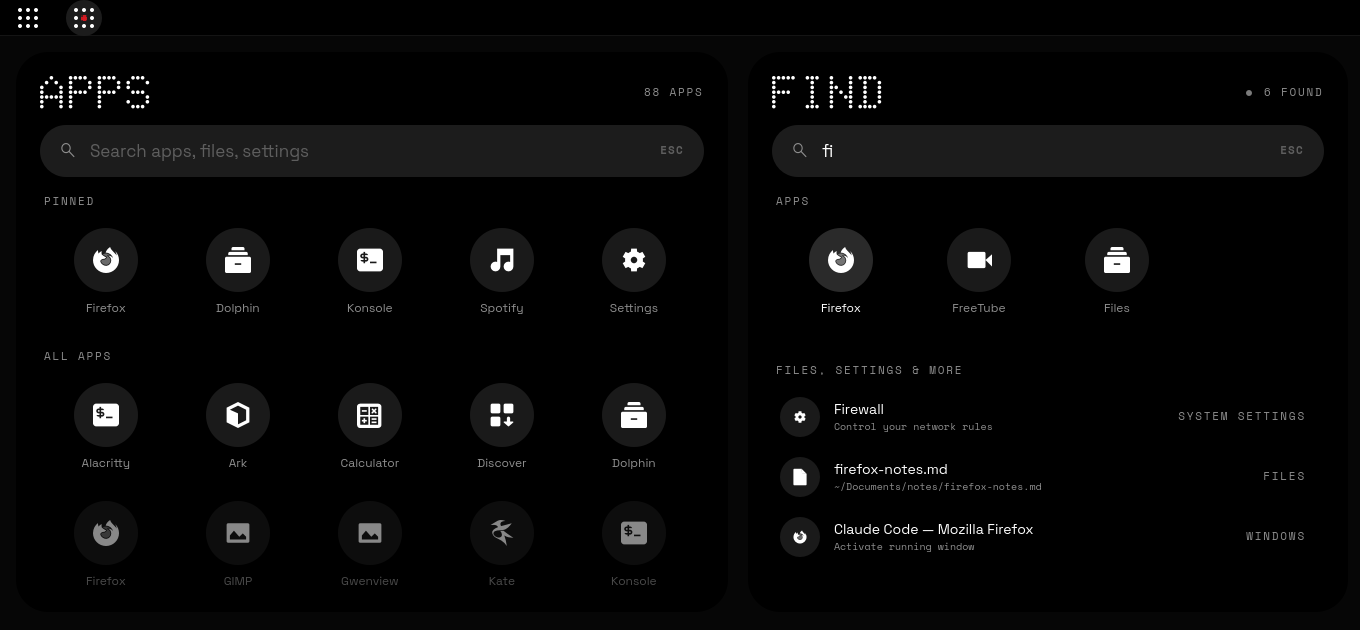
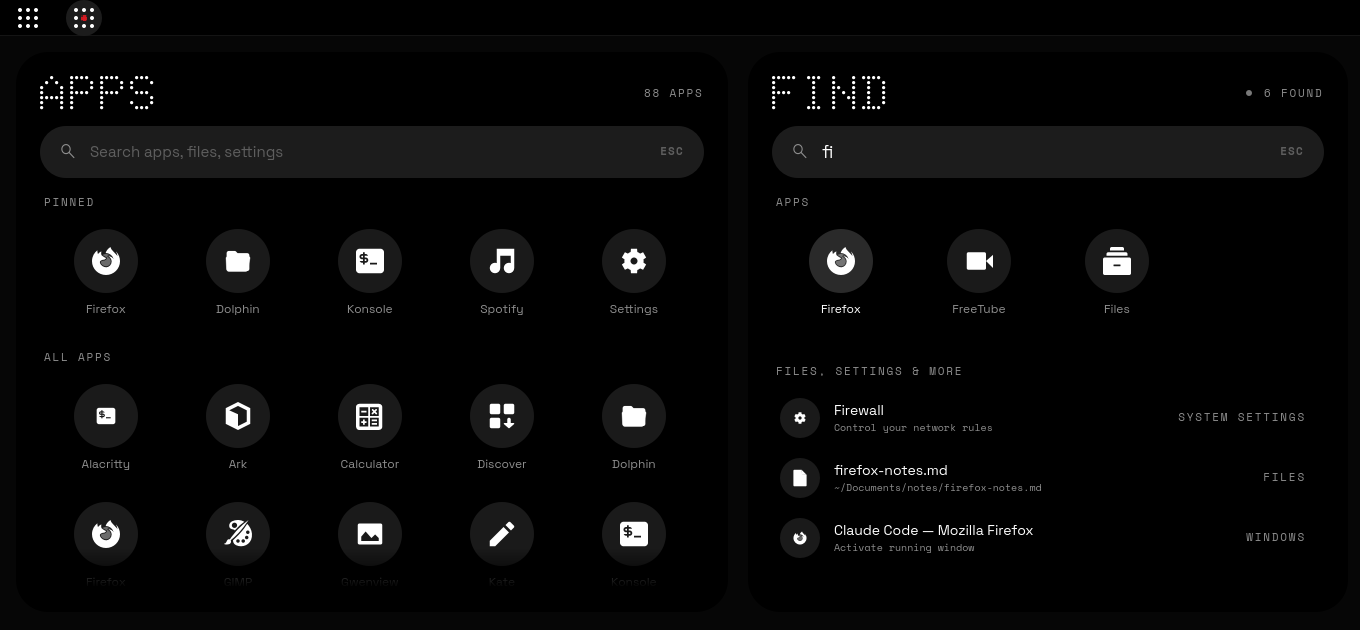
controlcenter+drawer: round 4

diff --git a/plasma/plasmoids/org.nothing.drawer/contents/ui/iconmap.js b/plasma/plasmoids/org.nothing.drawer/contents/ui/iconmap.js
@@ -1,57 +1,117 @@
 .pragma library
 
-// Picks a monochrome "-symbolic" glyph for an app icon so the drawer renders every
-// app as a flat white line glyph. `available` is the set of symbolic icon names the
-// active icon themes ship (scanned once in main.qml). Returns "" when nothing fits,
-// in which case MonoIcon masks the normal icon into a flat silhouette.
+// Picks a monochrome "-symbolic" glyph for every app so the drawer renders all apps
+// as flat white line glyphs, and (via assign()) gives installed apps DISTINCT glyphs
+// where the theme has alternatives. `available` is the set of "<name>-symbolic"
+// names shipped by the active icon themes (scanned once in main.qml).
+// No glyph → "" → MonoIcon masks the normal icon into a flat silhouette.
 
-// keyword (matched against icon name + app name + generic name) → glyph candidates.
-// Order matters: earlier rules win.
+// Brand glyphs that read badly at 24px: use the category glyph instead.
+const overrides = {
+    "kate": ["accessories-text-editor", "text-editor"],
+    "org.kde.kate": ["accessories-text-editor", "text-editor"],
+    "kwrite": ["text-editor", "document-edit"],
+    "org.kde.kwrite": ["text-editor", "document-edit"],
+};
+
+// keyword (matched against icon name + app name + generic name) → glyph candidates,
+// most fitting first. All matching rules contribute, in this order.
 const rules = [
-    [/steam_icon_|steam|lutris|heroic|proton|bottles|game|minecraft|tlauncher/, ["applications-games", "input-gaming"]],
-    [/termin|konsole|alacritty|kitty|xterm|wezterm|foot|tilix|console/, ["utilities-terminal"]],
-    [/dolphin|nautilus|thunar|nemo|pcmanfm|file manager|^files|\bfiles\b|volman/, ["system-file-manager", "folder"]],
-    [/firefox|chrom|brave|vivaldi|opera|epiphany|librewolf|browser|\bweb\b/, ["web-browser", "internet-web-browser"]],
-    [/spotify|music|audio|elisa|rhythmbox|amarok|strawberry|pavucontrol|sound|volume/, ["audio-x-generic", "multimedia-player"]],
-    [/vlc|mpv|video|haruna|celluloid|totem|freetube|kdenlive|\bobs\b|youtube|player|qvidcap/, ["video-x-generic", "applications-multimedia"]],
-    [/discord|telegram|chat|signal|element|slack|zapzap|whatsapp|messenger|teams|irc/, ["im-user"]],
-    [/thunderbird|kmail|evolution|geary|\bmail\b/, ["internet-mail", "mail-message"]],
+    [/steam_icon_|steam|lutris|heroic|proton|bottles|\bgames?\b|minecraft|tlauncher|days to die/, ["applications-games", "input-gaming", "input-gamepad"]],
+    [/print|scan|cups|hplip|\bhp\b/, ["printer", "document-print"]],
+    [/torrent|download/, ["edit-download", "download"]],
+    [/localsend|share|send/, ["document-share"]],
+    [/termin|konsole|alacritty|kitty|xterm|wezterm|\bfoot\b|tilix|console/, ["utilities-terminal", "dialog-scripts", "system-run"]],
+    [/dolphin|nautilus|thunar|nemo|pcmanfm|file manager|^files$/, ["system-file-manager", "folder-open", "document-open-folder", "folder"]],
+    [/volman|removable|usb|ventoy|flash/, ["media-flash", "drive-harddisk"]],
+    [/firefox|chrom|brave|vivaldi|opera|epiphany|librewolf|browser|\bweb\b/, ["web-browser", "internet-web-browser", "globe"]],
+    [/spotify|music|elisa|rhythmbox|amarok|strawberry/, ["audio-x-generic", "emblem-music", "audio-headphones"]],
+    [/pavucontrol|volume control|sound|mixer|audio/, ["audio-headphones", "multimedia-player", "audio-x-generic"]],
+    [/vlc|mpv|haruna|celluloid|totem|freetube|youtube|media player|video player/, ["video-x-generic", "media-playback-start", "emblem-videos", "multimedia-player"]],
+    [/kdenlive|\bobs\b|qvidcap|video/, ["camera-video", "emblem-videos", "video-x-generic"]],
+    [/camera|webcam|qv4l2/, ["camera-web", "camera-photo"]],
+    [/discord|telegram|chat|signal|element|slack|zapzap|whatsapp|messenger|teams|irc/, ["im-user", "chat-message-new", "dialog-messages"]],
+    [/thunderbird|kmail|evolution|geary|\bmail\b/, ["internet-mail", "mail-message", "mail-unread"]],
     [/calc/, ["accessories-calculator"]],
-    [/\bark\b|archiv|xarchiver|file-roller|peazip|compress/, ["package-x-generic"]],
-    [/code|codium|vscode|\bzed\b|\bide\b|antigravity|designer|linguist|cmake|jetbrains|meld|qdbus|assistant|develop/, ["applications-development", "code-context"]],
-    [/kate|kwrite|gedit|gvim|\bvim\b|micro|nano|notepad|text editor|editor/, ["accessories-text-editor", "text-editor"]],
-    [/discover|software|store|flatpak|octopi|pamac|package/, ["system-software-install"]],
-    [/monitor|htop|btop|hwinfo|hwloc|resources|task manager|usage/, ["utilities-system-monitor"]],
-    [/gwenview|image|photo|gimp|krita|inkscape|darktable|paint|draw|graphic|screenshot|spectacle|colou?r/, ["image-x-generic", "applications-graphics"]],
-    [/okular|pdf|evince|document|office|writer|reader/, ["x-office-document"]],
-    [/print|cups|hplip|\bhp\b/, ["printer"]],
-    [/camera|webcam|qv4l2/, ["camera-photo"]],
-    [/virt|qemu|vmware|virtualbox|boxes|\bvm\b/, ["virt-manager", "applications-system"]],
-    [/network|wired|wi-?fi|anydesk|rustdesk|parsec|remote|vnc|kdeconnect|localsend|torrent|download|ventoy/, ["applications-internet", "network-wired"]],
-    [/help|bug|report|manual|welcome|hello/, ["help-browser"]],
-    [/setting|preference|configur|control|kcm|tweak|kvantum|theme|kernel|scx|menu edit|kmenuedit|latte|plasma/, ["preferences-system", "emblem-system"]],
-    [/emoji|character/, ["preferences-other"]],
-    [/display|monitor|screen/, ["video-display"]],
+    [/\bark\b|archiv|xarchiver|file-roller|peazip|compress/, ["package-x-generic", "document-preview-archive"]],
+    [/codium|vscode|visual studio|\bzed\b|\bide\b|antigravity|jetbrains|code editor|\bcode\b/, ["applications-development", "code-context", "code-block"]],
+    [/designer|linguist|cmake|qdbus|assistant|meld|develop|debug/, ["code-class", "code-function", "dialog-xml-editor", "run-build", "code-block"]],
+    [/kate|kwrite|gedit|gvim|\bvim\b|micro|nano|notepad|text editor|editor/, ["accessories-text-editor", "text-editor", "document-edit", "draw-text"]],
+    [/discover|software|store|flatpak|octopi|pamac|package manager/, ["system-software-install", "applications-all"]],
+    [/system monitor|monitor|htop|btop|resources|task manager|usage/, ["utilities-system-monitor", "dialog-memory"]],
+    [/hwinfo|hwloc|hardware|cpu|topology/, ["cpu", "computer", "dialog-memory"]],
+    [/gimp|krita|inkscape|paint|draw|mypaint|pinta|brush|vector/, ["draw-brush", "applications-graphics", "draw-freehand", "draw-bezier-curves"]],
+    [/screenshot|spectacle|screen capture|flameshot/, ["accessories-screenshot", "camera-photo"]],
+    [/anydesk|rustdesk|parsec|remote|vnc|desktop sharing/, ["user-desktop", "applications-network", "network-vpn"]],
+    [/gwenview|image|photo|viewer|picture|darktable|digikam|shotwell/, ["image-x-generic", "emblem-photos", "color-management"]],
+    [/okular|pdf|evince|document|office|writer|reader/, ["x-office-document", "document-preview", "applications-office"]],
+    [/virt|qemu|vmware|virtualbox|boxes|\bvm\b|viewer/, ["virt-manager", "computer", "applications-system"]],
+    [/kdeconnect|connect|phone/, ["kdeconnect", "smartphone", "phone"]],
+    [/network|wired|wi-?fi|connection/, ["preferences-system-network", "network-wired", "applications-network"]],
+    [/help|bug|report|manual|welcome|hello/, ["help-browser", "tools-report-bug", "dialog-question"]],
+    [/emoji|character/, ["accessories-character-map", "preferences-other"]],
+    [/display|screen|monitor/, ["video-display", "preferences-desktop-display"]],
+    [/kvantum|theme|style|appearance/, ["color-management", "preferences-other"]],
+    [/kernel|scx|scheduler/, ["cpu", "applications-system"]],
+    [/latte|dock|panel|plasma/, ["plasma", "start-here"]],
+    [/menu edit|kmenuedit|menu/, ["applications-all", "settings-configure"]],
+    [/setting|preference|configur|control|kcm|tweak/, ["preferences-system", "settings-configure", "configure", "emblem-system", "dialog-object-properties"]],
 ];
 
 function has(available, name) {
     return !!available && available[name + "-symbolic"] === true;
 }
 
-function resolve(source, hint, available) {
-    if (typeof source !== "string" || source === "" || !available) return "";
+// Fitting glyph names (without "-symbolic"), best first, unique. Only the app's own
+// glyph(s) and its FIRST matching category count as good fits; later matches are
+// weaker guesses and only used when nothing better exists.
+function tiers(source, hint, available) {
+    const good = [], weak = [];
+    const add = (list, n) => { if (has(available, n) && good.indexOf(n) < 0 && weak.indexOf(n) < 0) list.push(n); };
+    if (typeof source !== "string" || source === "" || !available) return { good: good, weak: weak };
     const s = source.toLowerCase();
+    if (overrides[s]) overrides[s].forEach(n => add(good, n));
     if (s.indexOf("/") < 0) {
-        if (has(available, source)) return source + "-symbolic";
-        if (has(available, s)) return s + "-symbolic";
-        // reverse-DNS ids: org.kde.konsole → konsole, com.google.Chrome → chrome
-        const last = s.split(".").pop();
-        if (last !== s && has(available, last)) return last + "-symbolic";
+        add(good, source); add(good, s);
+        const last = s.split(".").pop();                 // org.kde.konsole → konsole
+        if (last !== s) add(good, last);
     }
     const text = (s + " " + String(hint || "")).toLowerCase();
+    let first = true;
     for (const [re, names] of rules) {
         if (!re.test(text)) continue;
-        for (const n of names) if (has(available, n)) return n + "-symbolic";
+        names.forEach(n => add(first ? good : weak, n));
+        first = false;
     }
-    return "";
+    return { good: good, weak: weak };
+}
+function candidates(source, hint, available) {
+    const t = tiers(source, hint, available);
+    return t.good.length ? t.good : t.weak;
+}
+
+// Greedy distinct assignment over the installed apps: each app takes its best glyph
+// that no earlier app took; apps whose candidates are all taken share their best one.
+// apps: [{ key, source, hint }] → { key: "<glyph>-symbolic" }
+function assign(apps, available) {
+    const used = {}, map = {}, seen = {};
+    apps = apps.filter(a => { if (seen[a.key]) return false; seen[a.key] = true; return true; });
+    // apps with fewer options pick first so they don't lose their only glyph
+    const list = apps.map(a => { const t = tiers(a.source, a.hint, available);
+                                 return { a: a, t: t, c: t.good.length ? t.good : t.weak }; })
+                     .filter(x => x.c.length > 0)
+                     .sort((x, y) => x.c.length - y.c.length);
+    for (const x of list) {
+        // best unused good fit → unused weaker guess → share the best good fit
+        let g = x.t.good.find(n => !used[n]) || x.t.weak.find(n => !used[n]) || x.c[0];
+        used[g] = true;
+        map[x.a.key] = g + "-symbolic";
+    }
+    return map;
+}
+
+function resolve(source, hint, available, assigned, key) {
+    if (assigned && key && assigned[key]) return assigned[key];
+    const c = candidates(source, hint, available);
+    return c.length ? c[0] + "-symbolic" : "";
 }

diff --git a/plasma/plasmoids/org.nothing.drawer/contents/ui/DrawerPanel.qml b/plasma/plasmoids/org.nothing.drawer/contents/ui/DrawerPanel.qml
@@ -33,6 +33,7 @@ Item {
     property int zone: 0
     property int sel: 0
     property bool keyboardNav: false     // arrows/tab used since opening → show focus disc
+    property var glyphMap: ({})          // key → distinct glyph (see iconmap.js assign)
     property var symbolicNames: ({})     // set of "<icon>-symbolic" names available in the icon theme
     readonly property color widgetFill: "#1a1a1a"
     readonly property real viewY: flick.contentY
@@ -109,7 +110,7 @@ Item {
         RowLayout {
             Layout.fillWidth: true
             spacing: 12
-            DotString { text: root.searching ? "FIND" : "APPS"; size: 48 }
+            DotString { text: root.searching ? "FIND" : "APPS"; size: 50; dotRatio: 0.65 }   // pitch 5px
             Item { Layout.fillWidth: true }
             Rectangle {
                 visible: root.busy
@@ -156,7 +157,7 @@ Item {
                     visible: !search.text
                     text: "Search apps, files, settings"
                     color: Theme.fg3
-                    font: search.font
+                    font.family: Theme.sans; font.pixelSize: 15; font.weight: Font.Normal
                     anchors.verticalCenter: parent.verticalCenter
                 }
             }
@@ -225,8 +226,6 @@ Item {
                         readonly property bool selected: root.zone === 2 && root.sel === index && (root.keyboardNav || root.searching)
                         width: resultsList.width
                         height: 56
-                        readonly property real cut: resultsList.y + y + height - root.viewY - root.viewHeight
-                        opacity: Math.max(0, Math.min(1, 1 - cut / (height * 0.5)))
                         pressScale: 0.98
                         acceptedButtons: Qt.LeftButton | Qt.RightButton
                         onClicked: mouse => {
@@ -278,6 +277,19 @@ Item {
                 }
                 Item { width: 1; height: 8 }
             }
+            Rectangle {
+                // 40px fade at the bottom edge = opacity mask 0→100% over the solid black card;
+                // only while there is more content below
+                parent: flick
+                anchors.left: parent.left; anchors.right: parent.right; anchors.bottom: parent.bottom
+                height: 40
+                opacity: flick.atYEnd ? 0 : 1
+                Behavior on opacity { NumberAnimation { duration: Theme.fast } }
+                gradient: Gradient {
+                    GradientStop { position: 0; color: "#00000000" }
+                    GradientStop { position: 1; color: Theme.bg }
+                }
+            }
         }
     }
 
@@ -304,11 +316,6 @@ Item {
             required property var model
             readonly property bool selected: panel.zone === grid.zoneId && panel.sel === index && (panel.keyboardNav || panel.searching)
             width: grid.cellWidth; height: grid.cellHeight
-            // bottom of this cell in viewport coordinates; once its label is cut off the
-            // whole cell (icon + label) fades out, so there are no crisp icons over hidden labels
-            readonly property real cut: Math.max(grid.y + y + height - panel.viewY - panel.viewHeight,
-                                                 panel.viewY - (grid.y + y))
-            opacity: Math.max(0, Math.min(1, 1 - cut / (height * 0.4)))
             acceptedButtons: Qt.LeftButton | Qt.RightButton
             onClicked: mouse => {
                 if (mouse.button === Qt.RightButton) panel.requestMenu(grid.zoneId, index, cell);
@@ -326,7 +333,8 @@ Item {
                 readonly property bool target: cell.selected && !focused        // Enter target while typing
                 color: focused ? Theme.fg : (target ? "#2a2a2a" : (cell.containsMouse ? Theme.card3 : panel.widgetFill))
                 Behavior on color { ColorAnimation { duration: Theme.fast } }
-                MonoIcon { anchors.centerIn: parent; size: 26; source: cell.model.decoration; hint: (cell.model.display || "") + " " + (cell.model.description || ""); symbolicNames: panel.symbolicNames; dark: disc.focused }
+                MonoIcon { anchors.centerIn: parent; size: 28; source: cell.model.decoration;   // 16px symbolic art has ~1px padding: 28px box ≈ 24px visible glyph
+                     hint: (cell.model.display || "") + " " + (cell.model.description || ""); key: cell.model.decoration + "|" + cell.model.display; glyphMap: panel.glyphMap; symbolicNames: panel.symbolicNames; dark: disc.focused }
             }
             Text {
                 anchors.top: disc.bottom; anchors.topMargin: 8

diff --git a/previews/DrawerPreview.qml b/previews/DrawerPreview.qml
@@ -1,6 +1,7 @@
 import QtQuick
 import "../plasma/plasmoids/shared"
 import "../plasma/plasmoids/org.nothing.drawer/contents/ui"
+import "../plasma/plasmoids/org.nothing.drawer/contents/ui/iconmap.js" as IconMap
 
 // App drawer mock: panel glyph (closed/open), idle drawer, searching drawer.
 Rectangle {
@@ -11,8 +12,19 @@ Rectangle {
         const n = ["firefox", "system-file-manager", "utilities-terminal", "accessories-calculator", "kate", "utilities-system-monitor",
                    "vlc", "audio-x-generic", "video-x-generic", "web-browser", "preferences-system", "image-x-generic",
                    "package-x-generic", "applications-games", "applications-development", "system-software-install",
-                   "im-user", "x-office-document", "applications-internet", "help-browser"];
+                   "im-user", "x-office-document", "applications-internet", "help-browser", "draw-brush", "applications-graphics",
+                   "accessories-text-editor", "text-editor", "dialog-scripts", "system-run", "emblem-photos", "folder-open",
+                   "emblem-music", "media-playback-start", "code-context", "applications-all", "accessories-screenshot",
+                   "settings-configure", "input-gaming", "preferences-system-network"];
         const o = {}; for (const k of n) o[k + "-symbolic"] = true; return o;
+    }
+    // same distinct assignment main.qml does over the installed apps
+    readonly property var glyphs: {
+        const a = [];
+        for (const m of [pinned, apps, found]) for (let i = 0; i < m.count; i++) {
+            const e = m.get(i); a.push({ key: e.decoration + "|" + e.display, source: e.decoration, hint: e.display });
+        }
+        return IconMap.assign(a, sym);
     }
     ListModel {
         id: pinned
@@ -72,6 +84,7 @@ Rectangle {
             pinnedModel: pinned; pinnedCount: pinned.count
             appsModel: apps; appsCount: apps.count; totalApps: 88
             symbolicNames: sym
+            glyphMap: glyphs
         }
         DrawerPanel {
             width: 600; height: 560
@@ -81,6 +94,7 @@ Rectangle {
             totalApps: 88
             busy: true
             symbolicNames: sym
+            glyphMap: glyphs
         }
     }
 }

diff --git a/plasma/plasmoids/org.nothing.drawer/contents/ui/main.qml b/plasma/plasmoids/org.nothing.drawer/contents/ui/main.qml
@@ -8,6 +8,7 @@ import org.kde.plasma.private.kicker as Kicker
 import org.kde.kitemmodels as KItemModels
 import org.kde.ksvg as KSvg
 import "nothing"
+import "iconmap.js" as IconMap
 
 // Nothing OS app drawer. Lists/launches apps through the Kicker models (same as
 // Kickoff), so launches feed KActivities recents, favourites stay in sync and
@@ -102,6 +103,28 @@ PlasmoidItem {
             root.symbolicNames = set;
             disconnectSource(source);
         }
+    }
+
+    // distinct glyph per installed app (recomputed when apps or the icon scan change)
+    property var glyphMap: ({})
+    function updateGlyphs() {
+        if (!allApps || Object.keys(symbolicNames).length === 0) return;
+        const R = allApps.KItemModels.KRoleNames;
+        const dec = R.role("decoration"), disp = R.role("display"), desc = R.role("description");
+        const apps = [];
+        for (let i = 0; i < allApps.count; i++) {
+            const ix = allApps.index(i, 0);
+            const d = allApps.data(ix, dec), n = allApps.data(ix, disp);
+            apps.push({ key: d + "|" + n, source: d, hint: n + " " + (allApps.data(ix, desc) || "") });
+        }
+        glyphMap = IconMap.assign(apps, symbolicNames);
+    }
+    onAllAppsChanged: updateGlyphs()
+    onSymbolicNamesChanged: updateGlyphs()
+    Connections {
+        target: root.allApps
+        ignoreUnknownSignals: true
+        function onCountChanged() { root.updateGlyphs(); }
     }
 
     // ── context menu: .desktop actions + favourites (like Kickoff's ActionMenu) ──
@@ -209,6 +232,7 @@ PlasmoidItem {
             totalApps: root.allApps ? root.allApps.count : 0
             busy: root.runnerModel.querying
             symbolicNames: root.symbolicNames
+            glyphMap: root.glyphMap
 
             onActivate: (zone, row) => root.activate(zone, row)
             onRequestMenu: (zone, row, item) => root.openMenu(zone, row, item)

diff --git a/plasma/plasmoids/org.nothing.controlcenter/contents/ui/ControlPanel.qml b/plasma/plasmoids/org.nothing.controlcenter/contents/ui/ControlPanel.qml
@@ -109,7 +109,7 @@ Item {
             ColumnLayout {
                 spacing: 12
                 Layout.topMargin: 6
-                DotTime { id: clock; hours: Qt.formatTime(root.now, "HH"); minutes: Qt.formatTime(root.now, "mm"); size: 56 }
+                DotTime { id: clock; hours: Qt.formatTime(root.now, "HH"); minutes: Qt.formatTime(root.now, "mm"); size: 80; dotRatio: 0.65 }   // pitch 8px, white colon
                 RowLayout {
                     id: dateRow
                     spacing: 10
@@ -163,7 +163,7 @@ Item {
                         onClicked: root.power(modelData.a)
                         Rectangle {
                             anchors.fill: parent
-                            radius: 14
+                            radius: 16
                             color: pw.containsMouse ? Theme.card3 : Theme.card2
                             Behavior on color { ColorAnimation { duration: Theme.fast } }
                         }

diff --git a/plasma/plasmoids/org.nothing.drawer/contents/ui/MonoIcon.qml b/plasma/plasmoids/org.nothing.drawer/contents/ui/MonoIcon.qml
@@ -12,10 +12,12 @@ Item {
     id: root
     property var source
     property string hint: ""                 // app name / generic name for category matching
-    property int size: 26
+    property int size: 24
     property bool dark: false
     property var symbolicNames: ({})
-    readonly property string glyph: IconMap.resolve(source, hint, symbolicNames)
+    property var glyphMap: ({})              // distinct per-app glyphs from IconMap.assign()
+    property string key: ""
+    readonly property string glyph: IconMap.resolve(source, hint, symbolicNames, glyphMap, key)
     readonly property var iconSource: glyph !== "" ? glyph : source
     readonly property color ink: dark ? "#000000" : "#ffffff"
     readonly property bool gpu: GraphicsInfo.api !== GraphicsInfo.Software

diff --git a/plasma/plasmoids/org.nothing.controlcenter/contents/ui/WideTile.qml b/plasma/plasmoids/org.nothing.controlcenter/contents/ui/WideTile.qml
@@ -9,7 +9,7 @@ Pressable {
     property string title
     property string subtitle: ""
     property bool active: false
-    property real radius: 14
+    property real radius: 16
     implicitHeight: 76
     implicitWidth: 180
 

diff --git a/plasma/plasmoids/org.nothing.controlcenter/contents/ui/MediaCard.qml b/plasma/plasmoids/org.nothing.controlcenter/contents/ui/MediaCard.qml
@@ -18,7 +18,7 @@ Rectangle {
     signal next()
 
     implicitHeight: 92
-    radius: 14
+    radius: 16
     color: "#1a1a1a"   // flat widget fill, no border (design review rule)
 
     RowLayout {
